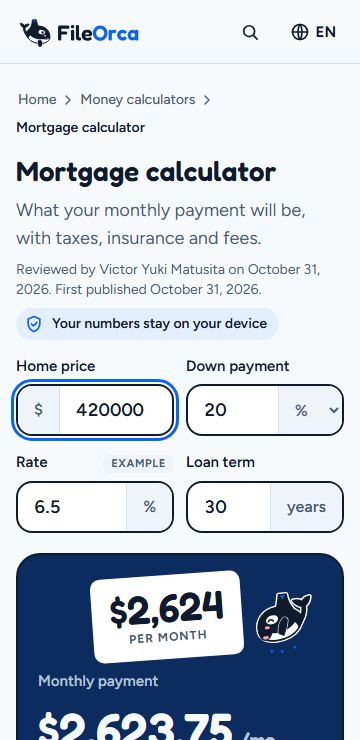
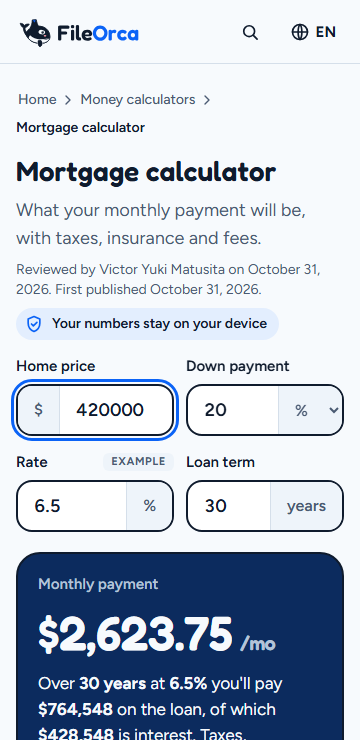
docs(f4): the run report, the late pitfalls in CLAUDE.md and the CI disk drop in § 141

diff --git a/docs/relatorios/fase-04.md b/docs/relatorios/fase-04.md
@@ -1,0 +1,308 @@
+# F4 · Relatório (dinheiro em inglês)
+
+Run `fase-04`, de 31/out a 1/nov/2026. Ficha: `docs/prompts/prompt-fase-04.md`. Plano: `docs/relatorios/fase-04-plano.md`. Revisão adversarial: `docs/relatorios/REVISAO-F4.md`.
+
+## Resumo
+
+- Entram, só em inglês: **14 calculadoras e 4 presets** (as 18 linhas `entra` de dinheiro do `data/keywords.csv`), o hub `/money-calculators/` e **5 guias**. A válvula não cortou nada: não há 4b.
+- Os motores ficam em `src/calc/`, sem dependência, e batem no centavo com um oráculo independente (numpy-financial 1.1.0 + laço em `decimal` + exemplos oficiais) em **3.039 casos**, gravados em `fixtures/calc/` antes do primeiro arquivo do motor.
+- Cada calculadora recalcula a cada tecla (p95 de até 2 ms no Chromium), mostra o resultado, o gráfico, os dois cenários onde compara e o cronograma recolhido por ano. Ela exporta PDF e CSV e guarda o cenário num link depois do `#`. Nenhum número digitado sai do aparelho, e o teste de privacidade prova isso nas 18 páginas e nos dois navegadores.
+- 20 rascunhos de contato com blogs de finanças em `docs/lancamento/blogs-financas.md`. Nada foi enviado.
+- Decisões novas: DECISOES § 110 a § 141.
+
+## As páginas
+
+JS inicial e requisições medidos pelo `budgets.spec.ts` no Chromium (gzip, JS próprio com o inline, primeira carga). Toda página de dinheiro carrega 2 arquivos JS: a entrada das calculadoras e o chunk `island`. A medida é a do `verificar` final, depois das correções da revisão (eram 37,5 KB antes delas).
+
+| URL | O que responde | Casos do oráculo | JS inicial | Requisições |
+| --- | --- | --- | --- | --- |
+| `/mortgage-calculator/` | What your monthly payment will be, with taxes, insurance and fees. | 296 | 38,0 KB | 6 |
+| `/personal-loan-calculator/` | What a personal loan costs a month, and its APR once the fee is counted. | 223 | 38,0 KB | 6 |
+| `/auto-loan-calculator/` | What a car loan costs a month, and what the car costs in all. | 199 | 38,0 KB | 6 |
+| `/refinance-calculator/` | Whether a new loan pays off, and in which month it breaks even. | 247 | 38,0 KB | 6 |
+| `/home-affordability-calculator/` | How much house fits your income, and which limit sets the price. | 212 | 38,0 KB | 6 |
+| `/loan-amortization-calculator/` | The whole schedule of a loan, payment by payment. | 153 | 38,0 KB | 6 |
+| `/credit-card-payoff-calculator/` | How long a card takes to pay off, or the payment for a target date. | 209 | 38,0 KB | 6 |
+| `/debt-payoff-calculator/` | Snowball or avalanche: when each plan makes you debt-free. | 81 | 38,0 KB | 6 |
+| `/debt-consolidation-calculator/` | Your debts as they are against one new loan: payment, interest and time. | 71 | 38,0 KB | 6 |
+| `/rent-vs-buy-calculator/` | Your net worth renting and buying, and the year buying catches up. | 136 | 38,0 KB | 6 |
+| `/compound-interest-calculator/` | How a balance grows with monthly deposits and compounding. | 345 | 38,0 KB | 6 |
+| `/savings-goal-calculator/` | The monthly deposit for a goal, or how long a deposit takes. | 190 | 38,0 KB | 6 |
+| `/simple-interest-calculator/` | Interest on a principal for years, months or days, without compounding. | 146 | 38,0 KB | 6 |
+| `/apr-to-apy-calculator/` | What a rate earns once compounding is counted, and back. | 184 | 38,0 KB | 6 |
+| `/mortgage-calculator/extra-payments/` | The interest saved and the time cut when you pay a little more. | 82 | 38,0 KB | 6 |
+| `/mortgage-calculator/biweekly/` | What paying half the payment every two weeks saves against paying monthly. | 78 | 38,0 KB | 6 |
+| `/mortgage-calculator/15-vs-30-year/` | What the shorter term costs a month, and what it saves in interest. | 84 | 38,0 KB | 6 |
+| `/loan-amortization-calculator/balloon-payment/` | The monthly payment of a balloon loan, and what is left to pay at the end. | 103 | 38,0 KB | 6 |
+| `/money-calculators/` | O hub: as 18, os presets, os guias e como as contas funcionam | (sem conta própria) | 3,6 KB | 4 |
+| `/guides/15-vs-30-year-mortgage/` | O custo dos dois prazos, com a tabela medida em várias taxas | os casos `guide-*` do 15 vs 30 | 38,0 KB | 6 |
+| `/guides/debt-snowball-vs-avalanche/` | Snowball ou avalanche, com o exemplo resolvido | `guide-snowball-avalanche` | 38,0 KB | 6 |
+| `/guides/extra-mortgage-payments/` | Quanto um pagamento extra encurta o empréstimo | `guide-extra-payments` | 38,0 KB | 6 |
+| `/guides/refinance-break-even/` | Em que mês um refinanciamento se paga | `guide-refinance-break-even` e `guide-refinance-rolled` | 38,0 KB | 6 |
+| `/guides/rent-vs-buy-break-even/` | Em que ano comprar alcança alugar | `guide-rent-vs-buy` | 38,0 KB | 6 |
+
+As páginas de imagem seguem com exatamente 2 arquivos JS. Elas subiram de 0,3 a 0,4 KB gzip, porque o chunk `island` é compartilhado e ganhou os ids e os eventos das calculadoras (§ 136, com a medida de antes e depois). Pares de navegação: de imagem para calculadora, 2 requisições novas; de calculadora para calculadora, 1; do hub para uma calculadora, 3; da home para o hub, 1.
+
+## O oráculo
+
+**A ordem** (`git log --topo-order --format='%h %ad %s' --date=iso -- fixtures/calc src/calc`, do mais novo ao mais velho):
+
+```
+5924a33 2026-11-01 02:35:40 -0300 test(oracle): savings goal cases on both sides of 10^15 cents
+eba71cb 2026-11-01 01:56:08 -0300 perf(calc): start the integer root near the answer; APY into APR takes one root
+a5b1a50 2026-11-01 01:54:58 -0300 fix(calc): savings goal past 10^15 cents is too large, and its PDF summary is filled in
+8544ebe 2026-11-01 01:53:48 -0300 test(oracle): a savings goal whose balance passes 10^15 cents is "too-large"
+22b7c28 2026-10-31 23:42:22 -0300 feat(calc): parse and format numbers in three languages; keep src/calc free of imports
+4397124 2026-10-31 23:34:36 -0300 feat(calc): add the money engines in src/calc, matching the oracle to the cent
+305c0da 2026-10-31 23:34:36 -0300 fix(oracle): compute the closed-form payment over whole numbers
+d1c0243 2026-10-31 23:29:19 -0300 test(calc): add the independent oracle and its fixtures for the 18 money calculators
+```
+
+As fixtures entram em `d1c0243`. O primeiro arquivo de `src/calc/` (`money.ts`) entra em `4397124`. O `305c0da` corrige o oráculo antes do motor: o meio centavo de um empréstimo de 1 mês (§ 126). Na revisão, a mudança de convenção da Savings goal (`too-large` acima de 10^15 centavos) entrou no oráculo em `8544ebe`, antes do motor em `a5b1a50`, e os casos da fronteira em `5924a33`.
+
+**Como rodar:** `uv run --no-project --python 3.13 --with numpy-financial==1.1.0 python scripts/oracle/calc.py` (o `--check` compara sem gravar). O cabeçalho de cada arquivo traz o SHA-256 do script e as versões (Python 3.13.18, numpy 2.5.4, numpy-financial 1.1.0).
+
+**Casos por calculadora (3.039):** mortgage 296, personal 223, auto 199, refinance 247, affordability 212, amortization 153, compound 345, card 209, debt payoff 81, rent vs buy 136, extra payments 82, biweekly 78, 15 vs 30 84, balloon 103, savings goal 190, consolidation 71, simple 146, APR to APY 184. Cada calculadora tem a grade, de 60 a 100 casos aleatórios com semente `2026-10-31/<id>`, o exemplo da página (`page-example`) e, quando houver, o do guia e os oficiais.
+
+**Os exemplos oficiais** estão em `fixtures/calc/OFICIAIS.md`, com a URL e a data de leitura (31/out/2026):
+
+- Reproduzidos no centavo: o H-24(B) do CFPB ($761.78), o exemplo do design system ($1,896.20 e $382,636.71), os dois carros da página do CFPB ($597 e $320), os dois exemplos do Apêndice J da Regulation Z (APR de 12.83% e de 9.69%), as três faixas do Apêndice A da Regulation DD (5.39%, 5.65% e 5.92%) e o `pmt`, o `ipmt` e o `nper` da documentação do numpy-financial.
+- Deixados de fora, com o motivo: os juros de $3,024 do carro em 72 meses (a página multiplica a parcela por 72, sem a última parcela que zera o saldo), o total do `ipmt` e o `fv` sem arredondamento, o ano 1 do exemplo de juros compostos do CFPB ($1,049.99 por mês contra $1,050 por ano), o APR e o TIP do H-24 (custos de fechamento), o empate de 27 meses do Federal Reserve (depois do imposto) e os casos irregulares dos Apêndices J e A.
+
+**O teste** (`tests/unit/calc-oracle.test.ts`) confere os 3.039 casos no centavo, o SHA-256 do script e a versão do numpy-financial, numa execução de 21 testes (um por calculadora, mais os do cabeçalho), que passam.
+
+**O mutante que reprova.** Copiei as 18 fixtures para uma pasta temporária e troquei a parcela do caso `design-system` da Mortgage de 189620 para 189621 centavos. A saída de `CALC_FIXTURES_DIR=<cópia> pnpm exec vitest run tests/unit/calc-oracle.test.ts`, cortada nos números do cronograma:
+
+```
+     × matches the oracle to the cent in all 296 cases 18ms
+ FAIL  tests/unit/calc-oracle.test.ts > mortgage-calculator > matches the oracle to the cent in all 296 cases
+AssertionError: 1 of 296 cases differ: expected [ Array(1) ] to deeply equal []
++   "design-system (design-system): got {\"down\":7500000,\"loan\":30000000,\"payment\":189620,… expected {\"down\":7500000,\"loan\":30000000,\"payment\":189621,…
+      Tests  1 failed | 20 passed (21)
+```
+
+Com as fixtures de verdade, o mesmo comando dá `Tests  21 passed (21)`.
+
+## A privacidade dos números
+
+`tests/e2e/calc-privacy.spec.ts` roda nas 18 páginas e nos dois navegadores: 38 testes passaram no `verificar` final (18 páginas mais o teste do próprio buscador, em cada navegador). Desde a revisão, o teste tenta a sentinela seguinte, mais curta, quando a primeira transforma o resultado num problema (com o PDF e o CSV desligados), e volta o campo ao valor dele se nenhuma der resultado. Todas as sentinelas digitadas entram na busca. Em cada página ele:
+
+1. digita uma sentinela longa e única em todo campo de número que está na tela, inclusive cada linha das listas de dívidas: 987654.32 (ou a maior que a faixa aceita) para dinheiro, 13.5791 para taxa e 287 para contagem;
+2. abre o cronograma, baixa o CSV e o PDF, copia o link, clica num chip e abre o link copiado numa carga nova;
+3. procura cada sentinela, em toda forma que ela pode tomar ("987654.32", "987,654.32", "98765432", "987654", "13.5791", "0.135791", "135791") e sem dígito colado antes ou depois, em:
+   - toda requisição de qualquer origem, com o método, a URL e o corpo;
+   - o `dataLayer` (e o `page_location` sem `#`), o `document.title` e o `location.search`;
+   - o `localStorage`, o `sessionStorage` e os cookies;
+   - os nomes dos arquivos baixados (`mortgage-schedule.csv`, `mortgage-schedule.pdf`).
+
+Nenhuma sentinela aparece. O único lugar com os números é o link copiado, depois do `#`, e o teste confere que ele traz a primeira sentinela de dinheiro em centavos.
+
+O `calc.spec.ts` prova o resto da decisão 6: a página lê o `#` uma vez, ignora o valor fora da faixa e o link de outra versão, e nunca chama `pushState` nem `replaceState`.
+
+## Os 16 ms por tecla
+
+`tests/e2e/calc-speed.spec.ts`: 30 teclas por calculadora, nas três da ficha e, desde a revisão (COR-1), na APY para APR com capitalização diária (Backspace no último dígito e um dígito novo, alternados, para cada tecla mudar o resultado), medidas dentro da página num `page.evaluate` só, do `input` ao `MutationObserver` ver o ResultHero mudar. Nenhuma linha de mês existe no DOM antes de o cronograma abrir. Saída do `verificar` final local:
+
+| Calculadora | Chromium p50 | Chromium p95 | WebKit p50 | WebKit p95 |
+| --- | --- | --- | --- | --- |
+| Rent vs buy | 0,60 ms | 1,90 ms | 1,00 ms | 2,00 ms |
+| Debt payoff com 10 dívidas | 0,60 ms | 0,90 ms | 1,00 ms | 1,00 ms |
+| Mortgage com pagamento extra | 0,60 ms | 1,40 ms | 1,00 ms | 2,00 ms |
+| APY para APR, capitalização diária | 1,10 ms | 1,60 ms | 2,00 ms | 4,00 ms |
+
+Antes da revisão, a APY para APR custava 22,6 ms de p50 e 26,7 ms de p95 por tecla no Chromium (medida da lente de corretude), acima do limite. O `iroot` passou a começar de uma estimativa de ponto flutuante, com as mesmas raízes (§ 139).
+
+O limite de 16 ms vale no Chromium, como a ficha pede. O relógio do WebKit anda de 1 em 1 ms, então ele é medido e impresso (§ 135).
+
+## Lighthouse
+
+`pnpm lhci` no celular, mediana de 3 execuções, no `verificar` final local:
+
+| Página | Desempenho | Acessibilidade | Boas práticas | SEO | LCP | CLS |
+| --- | --- | --- | --- | --- | --- | --- |
+| `/compress-image/` | 100 | 100 | 100 | 100 | 1,67 s | 0,001 |
+| `/image-tools/` | 100 | 100 | 100 | 100 | 1,35 s | 0,000 |
+| `/mortgage-calculator/` | 99 | 100 | 100 | 100 | 1,82 s (a frase do ResultHero) | 0,000 |
+| `/guides/15-vs-30-year-mortgage/` | 99 | 100 | 100 | 100 | 1,91 s (o primeiro parágrafo) | 0,000 |
+
+## Screenshots
+
+`pnpm screenshots` grava em `docs/relatorios/fase-04/componentes/` (120 PNG, nos dois temas, refeitos sobre o build final, depois das correções da revisão):
+
+- os componentes da calculadora: `number-fields-*`, `number-fields-error-*`, `result-hero-*`, `export-bar-copied-*`, `amort-table-*` (cronograma aberto) e `scenario-compare-*`;
+- as páginas inteiras a 360 e 1280 px: `money-mortgage-calculator-*`, `money-money-calculators-*` (o hub), `money-15-vs-30-year-mortgage-*` (um guia) e `money-debt-payoff-calculator-*` (a lista de dívidas depois do resultado);
+- os componentes de imagem das fases anteriores, regerados sobre o build da F4.
+
+A pasta da F3 (`docs/relatorios/fase-03/componentes/`) ficou como estava.
+
+## A revisão adversarial
+
+O detalhe está em `docs/relatorios/REVISAO-F4.md`. Foram seis lentes Sonnet em contexto limpo sobre o commit `ebfd6c1`, numa worktree só de leitura, com 24 céticos (30 agentes no total).
+
+| Lente | Achados | Crítico/alto/médio (depois do cético) | Corrigidos | Refutados |
+| --- | --- | --- | --- | --- |
+| (a) Corretude financeira | 17 | 5 médios | 6 | 1 |
+| (b) Privacidade dos números | 5 | 0 | 2 | 1 |
+| (c) Anúncio, política e YMYL | 5 | 3 médios | 5 | 0 |
+| (d) Acessibilidade | 13 | 7 médios | 8 | 0 |
+| (e) Desempenho e SEO | 3 | 0 | 2 | 0 |
+| (f) Design system | 11 | 1 alto e 3 médios | 9 | 0 |
+
+- **Nenhum crítico ficou de pé:** o único era o número quebrado da Savings goal, que o cético rebaixou a médio e que foi corrigido.
+- **O alto** eram as caixas esticadas ao lado de um campo com ajuda, corrigidas com subgrid (§ 137).
+- **Todos os médios foram corrigidos**, cada um com um teste que falha sem a correção.
+- **Os baixos ficam pendentes:** 18 baixos, mais o ACE-11 (corrigido em parte) e o DES-11 (que virou registro). A lista está no `REVISAO-F4.md`, com o motivo de cada um. Os principais:
+  - "1 years" com n = 1;
+  - a parcela de $0.00 com saldo menor que o prazo em centavos, que muda o motor e pede caso no oráculo antes;
+  - o campo do pagamento sem `aria-invalid` quando a parcela não cobre os juros;
+  - o teste de privacidade sem os campos que só aparecem com outro modo (a sonda da lente cobriu 40 cenários e não achou vazamento).
+- **A segunda passada** revisou o diff das correções (`ebfd6c1..5d3f16b`) e achou 2 médios e 5 baixos, todos corrigidos com teste em `5924a33` e `381fc3f`:
+  - o PDF e o CSV ficam desligados também com um campo a corrigir;
+  - o grupo de opções sai do subgrid, que deixava 12 px vazios no WebKit;
+  - o cabeçalho "Balance" acompanha o saldo no celular;
+  - o oráculo ganhou casos dos dois lados de 10^15 centavos;
+  - e dois testes passaram a provar o que dizem.
+
+## Decisões novas
+
+DECISOES § 110 a § 141:
+
+- **§ 110 a § 123:** catálogo e ids, uma ilha com dois arquivos JS, a aritmética do dinheiro, o parser, os eventos, o link do cenário, o PDF e o CSV, as faixas, o molde da página, o hub, a home, o rodapé e a busca, os guias, e os portões de dinheiro, de conteúdo, de título e do `lint:texto`.
+- **§ 124:** o resultado acima da dobra no celular, com os campos principais em pares, rótulos curtos e o resto depois do resultado.
+- **§ 125:** a busca em inglês conta as 34 páginas.
+- **§ 126 e § 127:** o oráculo, a correção do meio centavo, os exemplos oficiais e as convenções de cada calculadora.
+- **§ 128 e § 129:** o link do cenário que se perdia numa carga rápida, e a tabela larga que rola dentro da moldura.
+- **§ 130 a § 133:** a linha do café fora das calculadoras, o que a ilha reaproveita das imagens, o nome "15-year vs 30-year" e o uv desta máquina.
+- **§ 134 a § 136:** os blogs, o Lighthouse e os screenshots com a medida dos 16 ms, e o JS antes e depois.
+- **§ 137 a § 140:** o subgrid dos campos, a espera do orçamento no lugar do `networkidle`, a revisão e as suas correções, e o ResultHero no celular.
+- **§ 141:** o `ENOSPC` do WebKit do CI, que voltou duas vezes na parte 3, com a hipótese e a proposta de ajuste.
+
+## pnpm verificar local
+
+Execução limpa em 1/nov/2026, no commit `58de070`, o último com código ou teste. Depois dele entraram só este relatório e as §§ 136 e 141 do `DECISOES.md`.
+
+- **Ambiente:** Windows 11, Node 26.8.1 (o CI usa o 24 do `.node-version`) e pnpm 10.
+- **Install:** o `pnpm install --frozen-lockfile` passou (`install exit 0`).
+- **Build do zero:** o `pnpm verificar` apagou o `dist/` e buildou de novo.
+
+A saída completa tem 1.644 linhas e fica em `.cache/f4/verificar-final.log`. Abaixo vão o resumo e as linhas de cada contagem.
+
+```
+Resumo do pnpm verificar (tudo)
+  ok       7.9 s  tipos (astro check)
+  ok       2.7 s  lint (eslint)
+  ok      12.0 s  build (astro build do zero)
+  ok       5.5 s  vitest
+  ok       0.3 s  cabeçalhos gerados
+  ok       0.4 s  worker sem código
+  ok       0.6 s  seo (hreflang, sitemaps, canonical, robots)
+  ok       0.5 s  links internos e páginas órfãs
+  ok       0.6 s  conteúdo mínimo das ferramentas e do site
+  ok      25.3 s  prontidão para o AdSense (dois builds extras em .cache/)
+  ok       0.7 s  design (sprite, fontes, tema, movimento, setas)
+  ok       5.7 s  licenças
+  ok       0.5 s  conteúdo de dinheiro e saúde
+  ok       0.4 s  actionlint
+  ok     213.0 s  playwright (chromium e webkit, axe, anúncios, orçamentos)
+  ok     143.1 s  lighthouse ci
+  ok      11.5 s  lint:texto (LanguageTool)
+  total 430.7 s (limite 900 s)
+verificar exit 0
+```
+
+```
+cabeçalhos: ok, 6 regras, LAUNCHED = true, build.txt 58de070
+worker sem código: ok, só assets em ./dist, sem main, sem run_worker_first, sem _worker.js e sem functions/
+seo: ok, 59 páginas indexáveis em 3 idiomas, hreflang recíproco, 3 sitemaps
+links: ok, 2216 links internos em 62 páginas, nenhuma órfã
+conteúdo: ok, 13 página(s) de ferramenta e de preset, 18 de calculadora e 59 página(s) do site conferida(s)
+prontidão: ok, 18 itens
+design sprite da Oli: ok, 62 páginas, ids únicos, um oli-clip, poses da lista fechada e caixas [data-oli] com o próprio símbolo
+licenças: ok, 15 dependências de navegador, 6 dentro de outras, 17 pacotes no bundle, 18 de build, 876 pacotes na árvore, /licenses em 3 idiomas
+dinheiro e saúde: ok, 24 de 24 página(s) desses hubs conferida(s)
+lint:texto: 36 arquivo(s), 2238 textos, 0 erro(s) de gramática, 243 aviso(s)
+```
+
+- **Vitest:** 55 arquivos, 862 passed (862).
+- **Playwright:** 808 passed (3.5m) nos dois navegadores. Não há `retries`, `skip`, `fixme` nem `only`: o `git diff 92f2b5b..HEAD -- tests playwright.config.ts` não acrescenta nenhum.
+- **`lint:texto`:** os 243 avisos são de ortografia (nomes próprios, FileOrca e Ko-fi) e de estilo, como na F3. Erro de gramática, nenhum.
+- **Sem dependência nova:** o `package.json` e o `pnpm-lock.yaml` não mudaram. Nada mudou em `.github/`, `scripts/ci/`, `.githooks/`, `.claude/settings.json`, `PLANO-FILEORCA.md`, `docs/adr/` e `docs/design/`: o `git diff --stat 92f2b5b..HEAD` desses caminhos sai vazio.
+
+## CI na PR
+
+Execução verde do CI no commit `58de070` (o último com código ou teste antes deste relatório): run [41277648653](https://github.com/vmatusita/fileorca/actions/runs/41277648653). As cinco partes, com o total do resumo do `verificar` e a duração do job:
+
+| Parte | Comando | Testes | Total do `verificar` | Job |
+| --- | --- | --- | ---: | ---: |
+| `verificar` | `pnpm verificar --sem-playwright` | os passos sem o Playwright: tipos, lint, build, Vitest, os portões, o Lighthouse das quatro URLs e o `lint:texto` | 285,4 s | 352 s |
+| `playwright (chromium)` | `pnpm verificar --playwright=chromium` | 404 passed | 529,4 s | 588 s |
+| `playwright (webkit 1 de 3)` | `pnpm verificar --playwright=webkit --shard=1/3` | 135 passed | 427,1 s | 490 s |
+| `playwright (webkit 2 de 3)` | `pnpm verificar --playwright=webkit --shard=2/3` | 135 passed | 273,4 s | 335 s |
+| `playwright (webkit 3 de 3)` | `pnpm verificar --playwright=webkit --shard=3/3` | 134 passed | 664,2 s | 745 s |
+
+- **Limites:** todas as partes ficaram abaixo de 900 s, e o `verificar` de cada uma abaixo do alvo de 700 s.
+- **A parte 3 do WebKit** é a mais pesada, a 36 s do alvo. Ela ficou com o `design.spec.ts` e os testes novos de calculadora que caem nela pela divisão por contagem. Se passar de 700 s, a ADR-003 manda dividir mais, num ajuste de `.github/` do Victor.
+- **O job `merge`** respondeu "sem merge - PR em rascunho: o merge espera ela ficar pronta".
+- **A run verde anterior,** 41274088572, no commit `5eee3a5`: `verificar` 283,8 s; Chromium 514,1 s; WebKit 317,9, 245,6 e 498,7 s.
+
+Falhas no meio do caminho:
+
+| Run | Commit | Parte | O que foi | O que mudou |
+| --- | --- | --- | --- | --- |
+| 41272269545 | `ebfd6c1` | WebKit 2 de 3 | O `budgets.spec.ts` do `/money-calculators/` estourou 60 s no `networkidle`, com as requisições todas respondidas (trace do artefato) | a espera própria do `budgets.spec.ts` (§ 138) |
+| 41273044165 | `b3bb351` | WebKit 2 de 3 | O mesmo, nos dois hubs | o mesmo |
+| 41275792910 | `5d3f16b` | WebKit 3 de 3 | `ENOSPC` em dois testes de movimento do `design.spec.ts`, com o disco caindo e voltando em segundos | nada em teste; registrado na § 141 |
+| 41276724285 | `e45415e` | WebKit 3 de 3 | `ENOSPC` em dois testes de movimento reduzido da mesma spec | o mesmo |
+
+Não há `skip`, `fixme`, `only`, `retries` nem `continue-on-error` novo: o `git diff 92f2b5b..HEAD -- tests playwright.config.ts | grep -E "test.(skip|fixme|only)|retries|continue-on-error"` dá vazio.
+
+## Prévia
+
+- **Link:** <https://fase-04-fileorca.vmatusita.workers.dev>, do comentário do Workers Builds na PR. Ele serve o commit `58de070`: o `build.txt` da prévia traz `58de070430726f85450a7353686e5686e3a18d69`.
+- **Como conferi:** com o Playwright (Chromium), bloqueando os domínios do Google com `context.route`, e com o script em `.cache/previa.ts`:
+  - `/mortgage-calculator/`, `/money-calculators/`, `/guides/refinance-break-even/`, `/debt-payoff-calculator/` e `/`: 200, `x-robots-tag: noindex` (prévia) e o H1 certo em cada uma.
+  - **Mortgage a 360 × 740 e a 1280 × 800:** a ilha hidrata, e o preço 420,000 muda a parcela de $2,396.20 para $2,623.75 sem botão. A 360 px, o número termina em 658 px depois da primeira tecla, com a Oli comemorando embaixo do gráfico.
+  - **Nenhuma requisição** saiu para fora da prévia.
+- **O que a prévia pegou:** na primeira visita (commit `ebfd6c1`), a Oli entrava acima do número na primeira tecla e o empurrava para 755 px, abaixo da dobra. A correção e o teste estão em `69eb38e` (§ 140).
+- **Screenshots:** a Mortgage na prévia está em `docs/relatorios/fase-04/previa/mortgage-360.png` e `mortgage-1280.png`.
+
+## O que a válvula cortou
+
+Nada. As 18 páginas, o hub e os 5 guias entraram. Não há 4b.
+
+## O que é do Victor, em passos
+
+1. **Abrir três calculadoras no celular e no computador**, depois do merge: a Mortgage (`/mortgage-calculator/`), a Debt payoff (`/debt-payoff-calculator/`, com a lista de dívidas depois do resultado) e o preset 15-year vs 30-year. Em cada uma: mudar um número e ver o resultado mudar sem botão; abrir o cronograma; baixar o PDF e o CSV; tocar em "Copy link" e abrir o link noutra aba.
+2. **Enviar os contatos de `docs/lancamento/blogs-financas.md`**, reescrevendo cada e-mail com as próprias palavras. A ordem de prioridade (A, B, C) está na tabela. Nenhum rascunho pede link; recuse quem pedir dinheiro ou troca.
+3. **No Search Console**, pedir a indexação do `/money-calculators/` e do `/mortgage-calculator/` (Inspeção de URL → Solicitar indexação).
+4. **As pendências que seguem abertas** da F3 (DECISOES § 103) e do `docs/F0-SAIDA.md`. A F4 não fechou nenhuma delas.
+5. **Gerar o prompt da 2b e o da F5a.**
+6. **Um ajuste para o `ENOSPC` do WebKit do CI** (DECISOES § 141). O disco do runner some por segundos durante o `design.spec.ts` no WebKit; foram duas vezes seguidas na parte 3 nesta PR. Proposta:
+   - um `coredumpctl list` no fim das partes do WebKit, para confirmar se é core dump;
+   - desligar os core dumps dos navegadores no CI;
+   - amostrar o disco a cada 2 s nessa spec.
+
+   Tudo isso mexe no `.github/` ou no diagnóstico, por isso fica com você.
+7. **Decidir os achados baixos que a revisão deixou** (tabela no `docs/relatorios/REVISAO-F4.md`), para uma 4b ou para a F5:
+   - "1 years" com n = 1;
+   - a parcela de $0.00 com saldo menor que o prazo em centavos, que muda o motor e pede caso no oráculo antes;
+   - o campo do pagamento sem `aria-invalid` quando não cobre os juros;
+   - o teste de privacidade sem os campos de outro modo.
+
+## Nota para a F6 (dinheiro adaptado em português)
+
+O que a F6 reusa:
+
+- **O parser e a formatação** (`src/calc/parse.ts`): já leem e escrevem "1.234,56" em português e espanhol, com testes. O `display()` de `src/tools/calc/form.ts` e o `formatScaled` aceitam o idioma.
+- **O registro e a ilha** (`src/tools/calc/registry.ts`, `CalcPanel`, `defs/`): uma calculadora em português é outra entrada do registro com rotas `pt`, os textos em `src/tools/<slug>/i18n/pt.ts` e a mesma definição, se a conta for a mesma.
+- **As fixtures e o oráculo**: a convenção (centavos, taxa em 1/10.000 de ponto, metade para cima) vale para o real. O oráculo ganha os casos da conta brasileira com a mesma estrutura.
+- **O CSV**: o `csvText` já separa a célula do texto; em português ele precisa de ponto e vírgula como separador e vírgula decimal (o Excel brasileiro abre assim). Hoje o separador e o decimal são fixos em inglês, então isso é uma mudança em `exports.ts`, com teste.
+- **O PDF**: o `report.ts` usa as fontes padrão (WinAnsi), que cobrem os acentos do português ("ç", "ã", "é"). Os textos do PDF vêm do `CalcSharedTexts`, que ganha a versão `pt`.
+
+Onde vai esbarrar:
+
+- **As contas não são as mesmas.** O financiamento brasileiro usa SAC e Price, com TR, seguros MIP e DFI e taxa de administração; o rotativo do cartão tem IOF. As definições da F4 são de convenção americana (PMI, HOA, APR da Regulation Z, APY da Regulation DD) e não se traduzem: são calculadoras novas, com oráculo próprio e fontes do Banco Central.
+- **As fontes oficiais** do portão de dinheiro hoje são do CFPB e do Federal Reserve. A F6 precisa acrescentar `bcb.gov.br` (e o que mais usar) na lista do `scripts/lib/ymyl.ts`, com teste e §.
+- **As rotas e o hreflang.** As páginas de dinheiro existem só em inglês (§ 58 e § 110). Uma calculadora brasileira não é a tradução da americana, então o hreflang não as liga: cada uma é página própria, e o `routes.test.ts` precisa saber disso.
+- **O espaço no celular.** Rótulos em português são mais longos ("Taxa de juros" com a etiqueta "exemplo"). A regra da § 124, com dois campos por linha e o rótulo numa linha, vai pedir rótulos curtos ou uma linha a mais, conferidos pelo `ads.spec.ts` a 360 × 740.
+- **O `lint:texto`** preenche os placeholders de dinheiro com amostras em inglês (`MONEY_SAMPLES`). Os textos em português precisam de amostras em reais ("R$ 1.234,56").

diff --git a/DECISOES.md b/DECISOES.md
@@ -1055,7 +1055,7 @@ Achados médios confirmados e os baixos da F2 que se confirmaram. Cada um tem te
 | `/resize-image/` | 20,5 KB | 20,9 KB |
 | as outras de imagem | 20,1 a 20,3 KB | 20,4 a 20,7 KB |
 | `/image-tools/` | 3,3 KB, 0 arquivos, 4 requisições | 3,3 KB, 0 arquivos, 4 requisições |
-| as 18 de dinheiro e os 5 guias | (não existiam) | 37,5 KB, 2 arquivos, 6 requisições |
+| as 18 de dinheiro e os 5 guias | (não existiam) | 37,5 KB, 2 arquivos, 6 requisições (38,0 KB depois das correções da revisão, § 139) |
 | `/money-calculators/` | (não existia) | 3,6 KB, 0 arquivos, 4 requisições |
 
 - **Por que as de imagem subiram 0,3 a 0,4 KB:** o chunk `island` é o mesmo para imagem e dinheiro. Ele ganhou a lista de ids das calculadoras em `tool-ids.ts` e os eventos novos (§ 113).
@@ -1113,4 +1113,9 @@ Achados médios confirmados e os baixos da F2 que se confirmaram. Cada um tem te
   - A queda segue o `design.spec.ts` (Oli e movimento) no WebKit do Linux, qualquer que seja a parte em que ele cai. Na § 108 ela foi na parte 2.
   - Ela some em segundos. Na F4, o `design.spec.ts` passou para a parte 3, porque as páginas novas empurram os testes pela divisão por contagem.
   - As execuções 41274088572 (`5eee3a5`) e anteriores da mesma PR passaram nessa spec.
-- **Decisão:** nada muda em teste, `retries`, timeout ou workflow. A F4 não pode mexer no `.github/`, e o diagnóstico é de outro ajuste (§ 109). O commit seguinte roda o CI de novo. Fica a proposta para um ajuste: amostrar o disco a cada 2 s durante o `design.spec.ts` no Linux, ou gravar o trace desses testes fora do `/`.
+- **A segunda vez seguida:** na execução 41276724285 (commit `e45415e`), na mesma parte, caíram outros dois testes da mesma spec: "result, start over and back to idle" e "/support/", com movimento reduzido. Foi às 05:24:4x, e a amostra pegou o `/` com 8.244 MB livres, ainda descendo. De novo a busca funda não achou arquivo, e 155 processos de outros usuários não puderam ser lidos.
+- **Hipótese, não provada:** o `core_pattern` do runner manda os dumps para o `systemd-coredump`, que roda como root. Um processo do WebKit que cai nessa spec geraria um dump grande. Ele encheria o `/` por segundos e seria descartado acima do limite do `systemd-coredump`, sem deixar arquivo. Isso explicaria a queda e a volta rápidas. Para confirmar, basta um `coredumpctl list` no fim das partes do WebKit.
+- **Decisão:** nada muda em teste, `retries`, timeout ou workflow. A F4 não pode mexer no `.github/`, e o diagnóstico é de outro ajuste (§ 109). Quando a parte cair por `ENOSPC`, roda de novo só ela (`gh run rerun --failed`, a prática do `CLAUDE.md`), e cada ocorrência vai para o relatório. Fica a proposta para um ajuste do Victor:
+  - um `coredumpctl list` no fim das partes do WebKit;
+  - desligar os core dumps dos navegadores no CI;
+  - amostrar o disco a cada 2 s durante o `design.spec.ts`.

diff --git a/CLAUDE.md b/CLAUDE.md
@@ -253,3 +253,9 @@ Pegadinhas que a F4 achou:
 - O uv desta máquina foi instalado pelo `winget` e não está no PATH do PowerShell nem do Git Bash: chame pelo caminho completo (`…\WinGet\Packages\astral-sh.uv_…\uv.exe`). Não há `python` no PATH; o `uv run … python -I script.py` serve para script de apoio também.
 - No Git Bash, heredoc com apóstrofo (`cat <<'EOF'` com "mortgage pages'") quebra o comando: escreva o arquivo com a ferramenta de escrita. Script Python que grava texto no Windows troca LF por CRLF; o Git normaliza no commit.
 - Medida de tempo no WebKit anda de 1 em 1 ms: o teste dos 16 ms só afirma o limite no Chromium e imprime o WebKit.
+- A grade dos campos usa subgrid (§ 137): cada item ocupa duas linhas, e o `CalcField` tem dois filhos, o rótulo e o `.fo-field__body`. Um `fieldset` (grupo de opções) fica fora do subgrid, porque no WebKit ele deixava 12 px vazios. Componente novo na grade: confira a altura dele e a do vizinho nos dois navegadores.
+- Enquanto o resultado é um problema, ou fica velho por um campo a corrigir, o PDF e o CSV ficam desligados (§ 139). Um teste que precisa baixar arquivo tem de deixar a conta com resultado (o `calc-privacy.spec.ts` desce a sentinela até isso acontecer).
+- O `budgets.spec.ts` não usa o `networkidle`, que no WebKit do Linux nunca disparava nos hubs (§ 138). Teste novo que precise da página quieta: espere o `load` e um intervalo sem requisição, como o `settler` dele.
+- O `ENOSPC` do WebKit do CI segue o `design.spec.ts` em qualquer parte (§ 108, § 109 e § 141). Se uma parte cair assim, leia as linhas `[disco]` e rode de novo só ela; não mexa em teste.
+- No Git Bash, um `node -e "…"` com acento grave dentro de aspas duplas executa o trecho como comando (o texto some sem erro). Script com Markdown ou template literal vai para um arquivo, pela ferramenta de escrita.
+- Para provar que um teste falha sem a correção, nunca use `git checkout <commit> -- arquivo` com mudança não commitada no mesmo arquivo: o `checkout HEAD` de volta apaga a mudança. Rode o teste contra o `dist/` antigo (antes do build) ou injete a regra antiga no teste.
